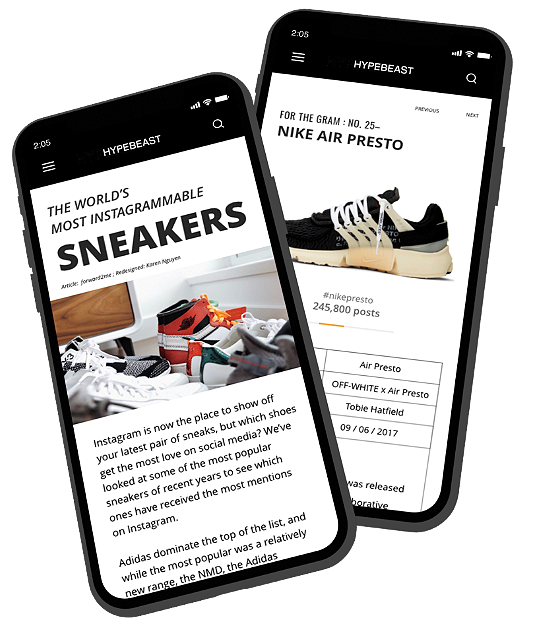
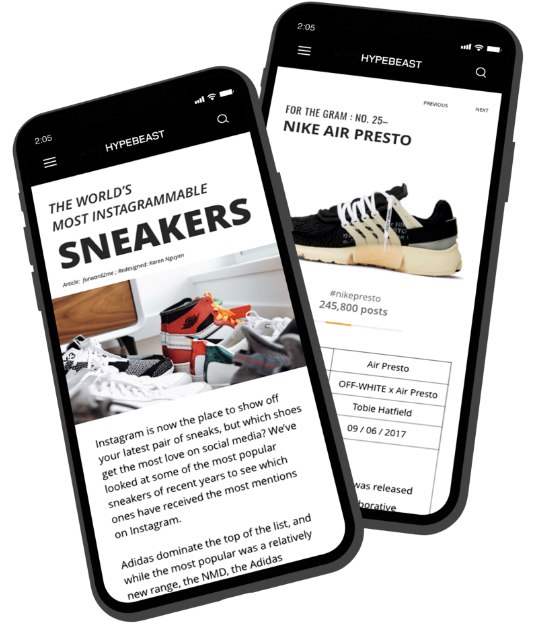
Fixed imagery resolution

Changed region(s): [[0.0297, 0.0, 0.9814, 1.0], [0.0, 0.2436, 0.0297, 0.274]]

diff --git a/style.css b/style.css
@@ -100,12 +100,10 @@ nav {
 #logo {
 display: flex;
 align-self: center;
-/*
-width: 245px;
-height: 20px;
-*/
+width: 200px;
+height: auto;
 position: absolute;
-top: 2.2%;
+top: 3%;
 }
 
 .menu {
@@ -180,12 +178,13 @@ top: 2.2%;
   width: 100%;
   position: relative;
   left: 30px;
+  bottom: 30px;
 }
 
 #hero_img img {
   position: relative;
-  top: 25px;
-  left: 80px;
+  max-width: 700px;
+  height:auto;
 }
 
 /* END ABOVE FOLD */
@@ -231,7 +230,7 @@ top: 2.2%;
 }
 
 #wing {
-        height:50px;
+        height:auto;
         width:300px;
         display: flex;
         justify-content: flex-start;

diff --git a/index.html b/index.html
@@ -11,7 +11,7 @@
 <body>
 
     <nav>
-      <img id="logo" src="images/logo – 1@2x.png" alt="Karen Nguyen">
+      <img id="logo" src="images/logo@2x.png" alt="Karen Nguyen">
       <div class="menu">
         <ul>
           <li id="about">About Me</li>
@@ -43,7 +43,7 @@
 
     <div class="right_container">
       <div id="hero_img">
-        <img src="images/hero_img – 3@2x.png" alt="">
+        <img src="images/sneakers-mock.png" alt="">
       </div>
     </div>
   </div>
